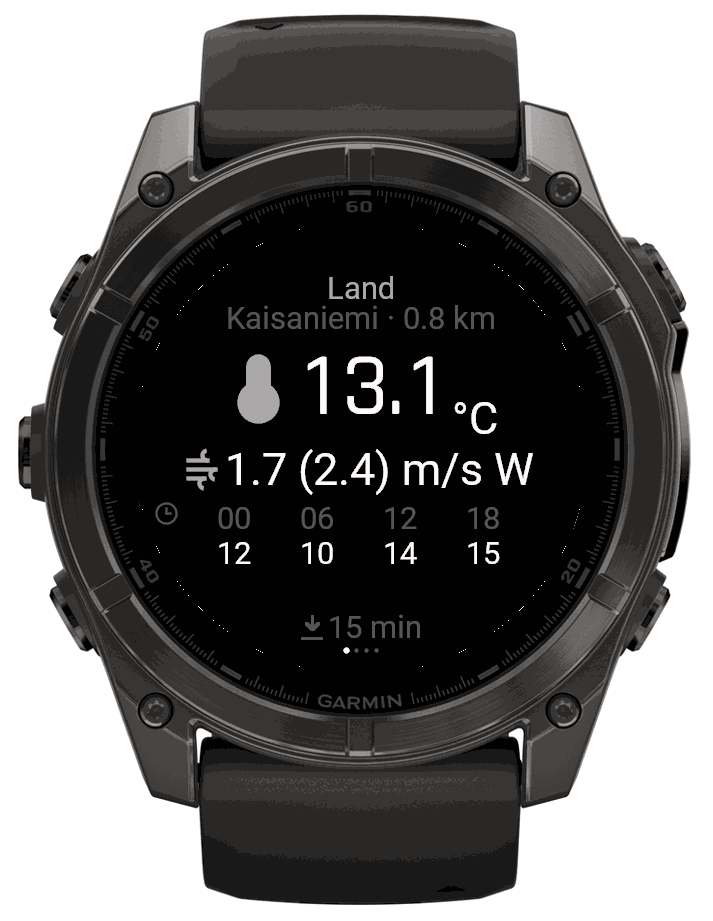
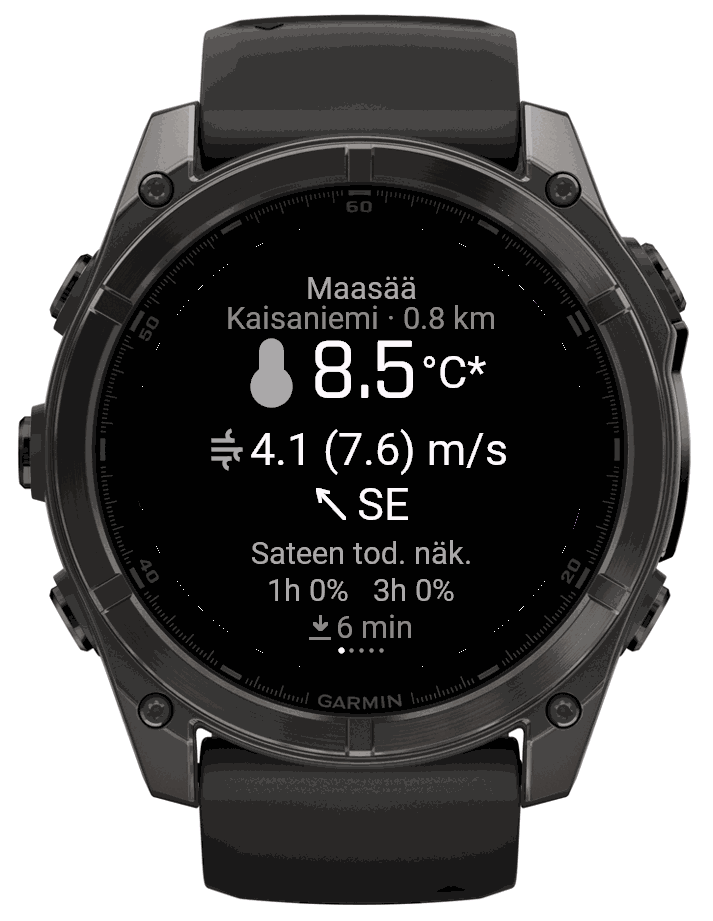
README: v1.2.1 Land screenshot and description (rain likelihood, not the old forecast strip)

Changed region(s): [[0.2468, 0.304, 0.7405, 0.7296], [0.216, 0.5472, 0.2468, 0.5776]]

diff --git a/README.md b/README.md
@@ -18,8 +18,7 @@ Meteorological Institute or Garmin. Weather data from
 | ![Land page](Screenshots/framed/pg1.png) | ![Sea page](Screenshots/framed/pg2.png) | ![Waves page](Screenshots/framed/pg3.png) |
 
 - **Land** — current temperature and wind from the nearest reporting station,
-  named, with its distance, plus a six-hourly forecast strip for the rest of
-  the day.
+  named, with its distance, plus the chance of rain for the next one and three hours.
 - **Sea** — wind, gusts, direction and air temperature from any of 22 Finnish
   marine stations: Harmaja, Utö, Kalbådagrund, Bogskär, Märket and the rest.
 - **Waves** — significant wave height, period, direction and sea water
